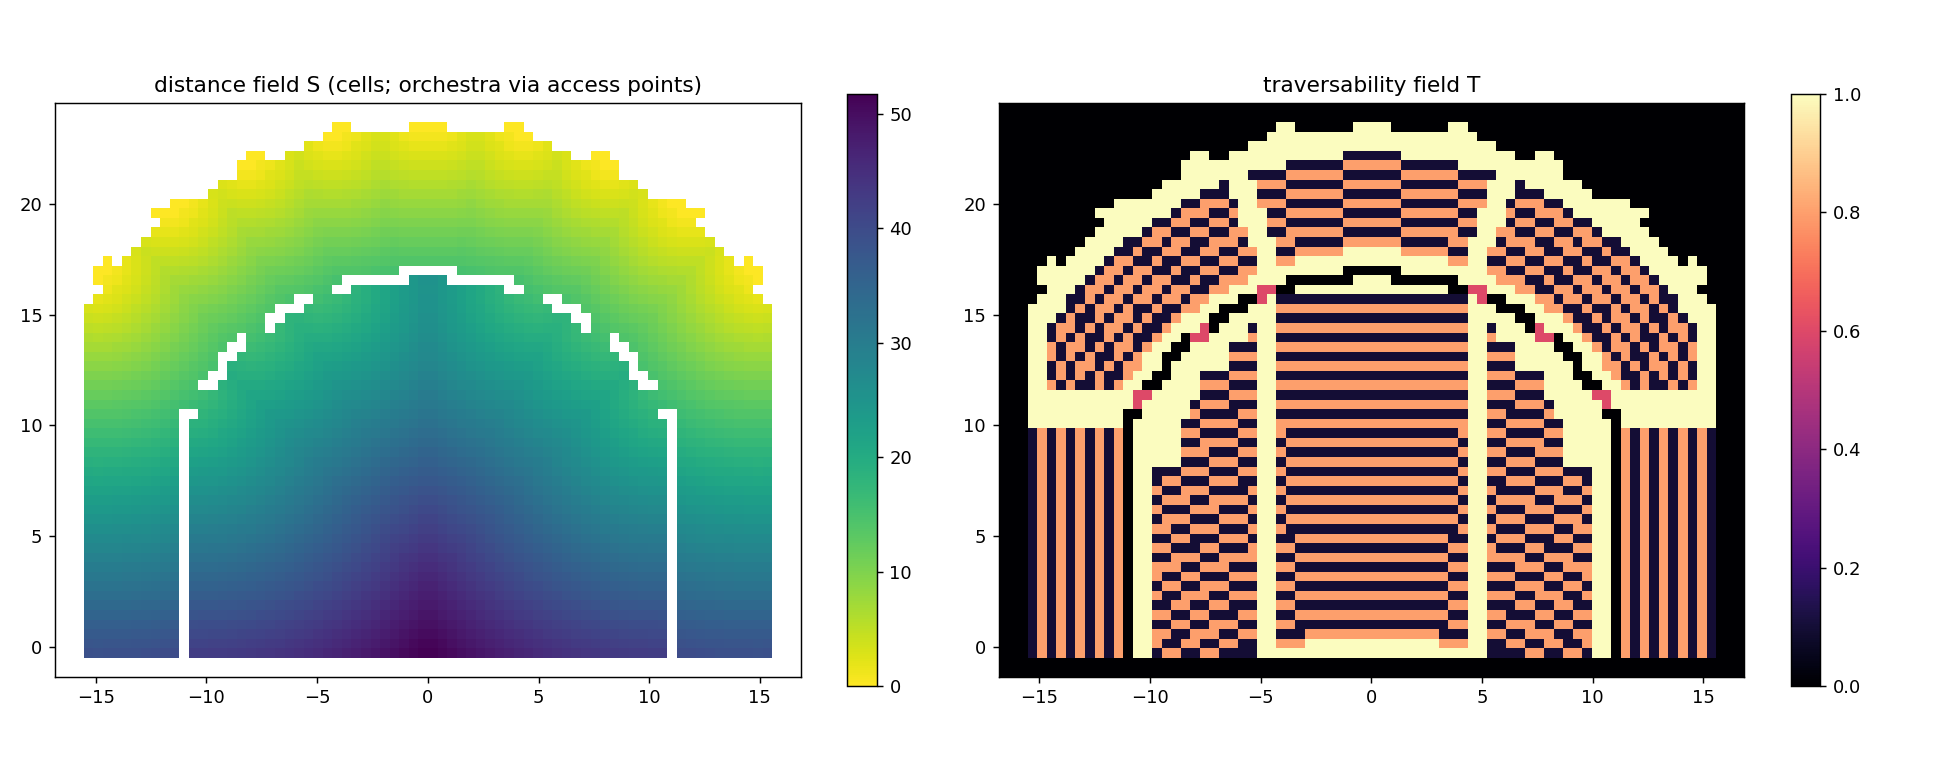
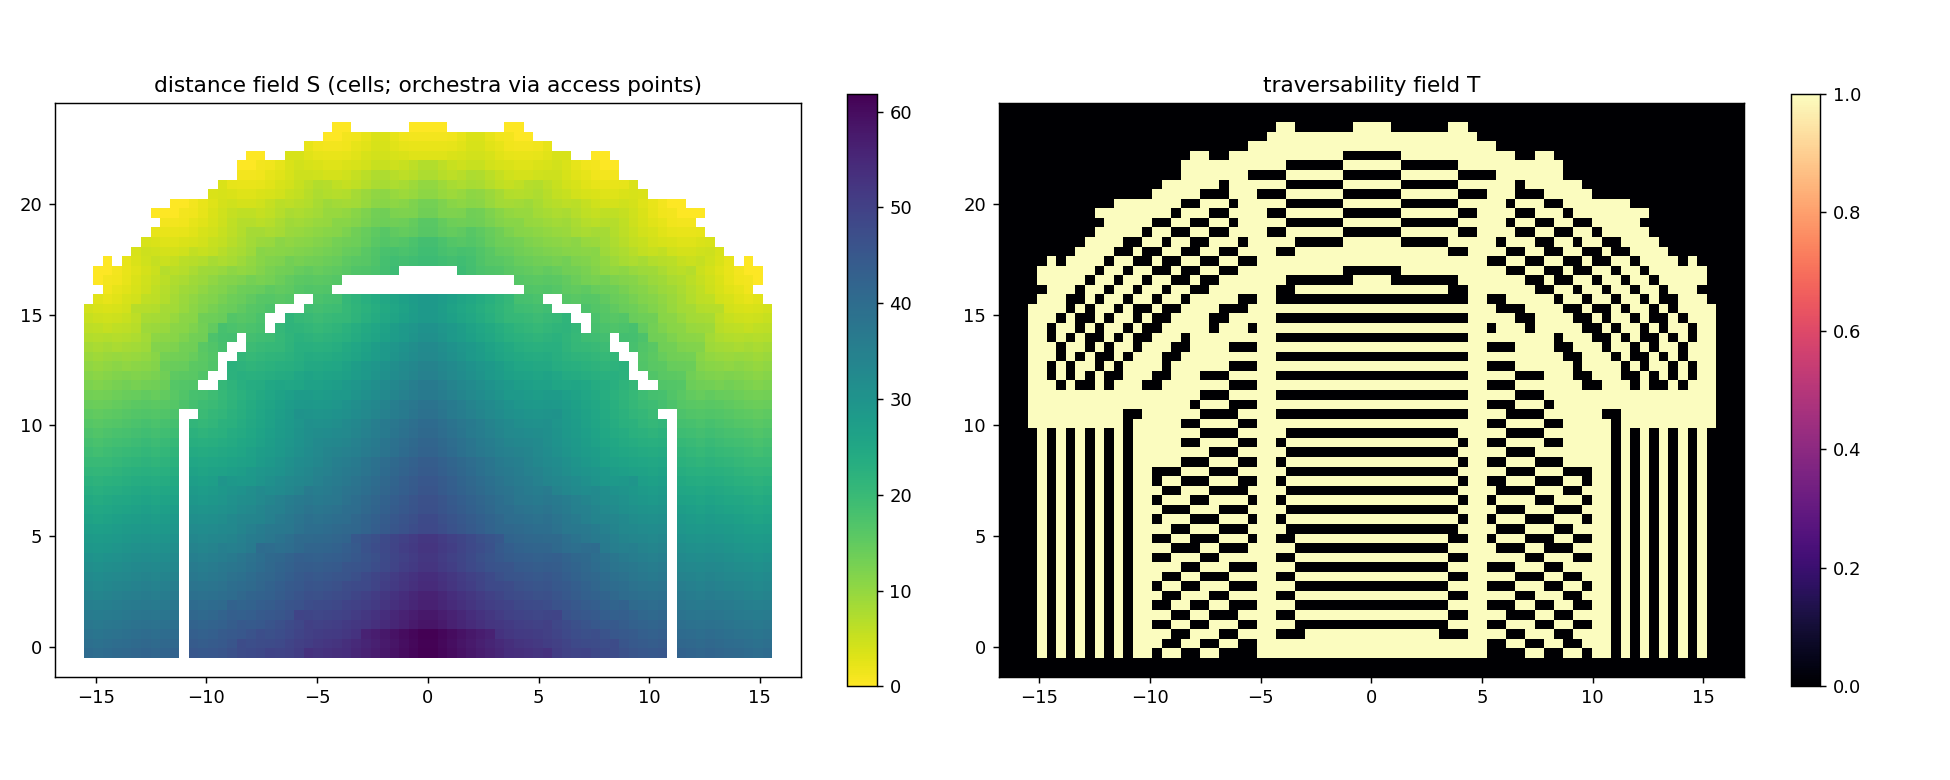
Binary traversability field; distance field = shortest walkable path to exits
- traversability_field: T is 1 for access/aisle/legroom/exit, 0 for seat/wall
- distance_field: Dijkstra from the exits over walkable cells (8 neighbours,
  diagonal cost sqrt 2); seats get the cost of stepping out to a walkable neighbour
- continuum: keeps its own per-type walking-speed factors (seats must stay passable)
- main.tex: binary definition of ST
- regenerated bailey_grid.npz and bailey_fields.png

diff --git a/continuous/continuum.py b/continuous/continuum.py
@@ -12,7 +12,9 @@ The crowd is a density rho(x, t) in people/m^2 that obeys
 Crowding enters in four places:
   1. Speed falls with density, separately for each cell type (Greenshields):
          q(rho) = vf * rho * (1 - rho/RHO_MAX),   vf = V_FREE * T(type) * (1 - merge loss)
-     T is the traversability field from the CA (aisle 1.0, legroom 0.8, seat 0.1).
+     T is a per-type walking-speed factor (aisle 1.0, legroom 0.8, seat 0.1). This is
+     not the CA's binary traversability field: people start out standing on seat
+     cells here, so seats must stay slow but passable.
   2. Flow between two cells is min(demand of the sender, supply of the receiver)
      (Godunov / cell-transmission form). A packed aisle has little supply, so it is
      hard to enter; a packed legroom row has its demand capped, so it empties slowly.
@@ -44,8 +46,7 @@ from scipy import ndimage
 
 sys.dont_write_bytecode = True
 sys.path.insert(0, str(Path(__file__).resolve().parent.parent))
-from bailey_grid import ACCESS, AISLE, EXIT, LEGROOM, SEAT, WALL     # noqa: E402
-from traversability_field import TRAVERSABILITY, traversability_field  # noqa: E402
+from bailey_grid import ACCESS, AISLE, EXIT, LEGROOM, SEAT, TYPE_NAMES, WALL  # noqa: E402
 from building import BARRICADES, OUT, build_building                   # noqa: E402
 
 # ----------------------------------------------------------------------------
@@ -62,12 +63,18 @@ PHI_EVERY = 1.0     # s, how often people re-plan (recompute phi and merge loss)
 T_END = 900.0       # s, give up after this
 DONE = 0.5          # people left inside when we call it evacuated
 
-# access points are slow because of their capacity (STAIR_FLOW), not their walking speed
-T_VALUES = {**TRAVERSABILITY, ACCESS: 1.0}
+# walking-speed factor by cell type; access points are slow because of their capacity
+# (STAIR_FLOW), not their walking speed
+T_VALUES = {WALL: 0.0, AISLE: 1.0, LEGROOM: 0.8, SEAT: 0.1, ACCESS: 1.0, EXIT: 1.0}
 
 RHO_C = RHO_MAX / 2                       # critical density (max flow)
 DIRS = [(0, 1), (0, -1), (1, 0), (-1, 0)]  # (dy, dx): east, west, north, south
 SQ = np.ones((3, 3), bool)
+
+
+def speed_factor(grid):
+    lut = np.array([T_VALUES[t] for t in range(len(TYPE_NAMES))])
+    return lut[grid]
 
 
 def nb(a, dy, dx):
@@ -140,7 +147,7 @@ def simulate(barricades="none", dt=None, jam_drop=JAM_DROP, merge_loss=MERGE_LOS
     assert (grid[[0, -1], :] == WALL).all() and (grid[:, [0, -1]] == WALL).all()
     dt = dt or 0.5 * cell / V_FREE                     # CFL condition
 
-    vf0 = V_FREE * traversability_field(np.minimum(grid, EXIT), T_VALUES)  # doors/outside = 1
+    vf0 = V_FREE * speed_factor(np.minimum(grid, EXIT))  # doors/outside = 1
     out_ = grid == OUT
     fronts = opening_fronts(b, vf0)
 

diff --git a/distance_field.py b/distance_field.py
@@ -1,34 +1,48 @@
 """
 distance_field.py
-Static field S: straight-line distance to the exits, in cells.
+Static field S: shortest walking distance to the nearest exit, in cells.
 
-    Mezzanine and access cells:  S(x) = min_e |x - x_e| / CELL
-    Orchestra cells:             S(x) = min_q ( |x - x_q| / CELL + S(x_q) )
+S is found by Dijkstra's algorithm outward from the exit cells (S = 0), moving to any
+of the 8 neighbours (up/down/left/right cost 1, diagonals cost sqrt 2) and only through
+traversable cells (T = 1: access, aisle, legroom, exit).
 
-e runs over exit cells, q over access cells. Routing the orchestra through the access
-points keeps S decreasing all the way out, so no walkable cell is a local minimum in
-front of the barrier. Straight lines ignore walls; wall cells get inf.
+Seats are not traversable, so a path never passes through one, but the people sitting
+in them still need a value: a seat gets the smallest S + step cost over its traversable
+neighbours (the step out of the chair). Walls, and anything with no route out, are inf.
+
+Because the barrier is a wall, orchestra paths automatically go through the access points.
 """
+
+import heapq
 
 import numpy as np
 
-from bailey_grid import ACCESS, CELL, EXIT, WALL
+from bailey_grid import EXIT, NEI8, SEAT
+from traversability_field import traversability_field
+
+STEP = [(dy, dx, float(np.hypot(dy, dx))) for dy, dx in NEI8]
 
 
 def distance_field(g):
-    grid, xs, ys, orch = g["grid"], g["xs"], g["ys"], g["orch"]
-    X, Y = np.meshgrid(xs, ys)
+    grid = g["grid"]
+    walk = traversability_field(grid) == 1
+    H, W = grid.shape
 
     S = np.full(grid.shape, np.inf)
-    ey, ex = np.nonzero(grid == EXIT)
-    for px, py in zip(xs[ex], ys[ey]):
-        S = np.minimum(S, np.hypot(X - px, Y - py) / CELL)
+    S[grid == EXIT] = 0.0
+    heap = [(0.0, int(y), int(x)) for y, x in np.argwhere(grid == EXIT)]
+    while heap:
+        s, y, x = heapq.heappop(heap)
+        if s > S[y, x]:
+            continue
+        for dy, dx, c in STEP:
+            v, u = y + dy, x + dx
+            if 0 <= v < H and 0 <= u < W and walk[v, u] and s + c < S[v, u]:
+                S[v, u] = s + c
+                heapq.heappush(heap, (s + c, v, u))
 
-    S_orch = np.full(grid.shape, np.inf)
-    ay, ax = np.nonzero(grid == ACCESS)
-    for iy, ix in zip(ay, ax):
-        S_orch = np.minimum(S_orch, np.hypot(X - xs[ix], Y - ys[iy]) / CELL + S[iy, ix])
-    S[orch] = S_orch[orch]
-
-    S[grid == WALL] = np.inf
+    for y, x in np.argwhere(grid == SEAT):
+        S[y, x] = min((S[y + dy, x + dx] + c for dy, dx, c in STEP
+                       if 0 <= y + dy < H and 0 <= x + dx < W and walk[y + dy, x + dx]),
+                      default=np.inf)
     return S

diff --git a/main.tex b/main.tex
@@ -126,14 +126,10 @@ We then assign one of six types to each grid cell: chair, legroom, aisle, wall, 
 
 $$SD_{ij} = \text{ Need to explain this}$$
 $$ST_{ij} = \begin{cases}
-    T_{\text{chair}} \text{ if cell (i,j) is type chair}\\
-    T_{\text{legroom}} \text{ if cell (i,j) is type legroom}\\
-    T_{\text{aisle}} \text{ if cell (i,j) is type aisle}\\
-    T_{\text{wall}} \text{ if cell (i,j) is type wall}\\
-    T_{\text{access}} \text{ if cell (i,j) is type access}
-    T_{\text{exit}} \text{ if cell (i,j) is type exit}
+    1 & \text{if cell } (i,j) \text{ is of type access, aisle, legroom or exit,}\\
+    0 & \text{if cell } (i,j) \text{ is of type chair or wall.}
 \end{cases}$$
-The idea here is that $SD$ incorporates information about proximity to the nearest exit or access point, and that $ST$ incorporates information about how difficult it is to traverse across different types of grid cells.
+The idea here is that $SD$ incorporates information about proximity to the nearest exit or access point, and that $ST$ records which grid cells can be walked through at all.
 
 
 Next, we define a dynamic field $D$ as follows. During a given time step, if an automata (patron) exits cell $(i,j)$ we increment $D_{ij}$ by one unit. Then, after every automata has attempted to move. With probability $\delta$, a cell value $D_{ij}$ ``decays"

diff --git a/traversability_field.py b/traversability_field.py
@@ -1,16 +1,16 @@
 """
 traversability_field.py
-Static field T: how easy each cell is to move through, by cell type (0 = impassable).
+Static field T: whether a cell can be walked through (1) or not (0), by cell type.
+Access, aisle, legroom and exit cells are 1; seats and walls are 0.
 """
 
 import numpy as np
 
 from bailey_grid import ACCESS, AISLE, EXIT, LEGROOM, SEAT, TYPE_NAMES, WALL
 
-TRAVERSABILITY = {WALL: 0.0, AISLE: 1.0, LEGROOM: 0.8, SEAT: 0.1,
-                  ACCESS: 0.6, EXIT: 1.0}
+TRAVERSABILITY = {WALL: 0, AISLE: 1, LEGROOM: 1, SEAT: 0, ACCESS: 1, EXIT: 1}
 
 
 def traversability_field(grid, values=TRAVERSABILITY):
-    lut = np.array([values[t] for t in range(len(TYPE_NAMES))])
+    lut = np.array([values[t] for t in range(len(TYPE_NAMES))], dtype=int)
     return lut[grid]

diff --git a/continuous/README.md b/continuous/README.md
@@ -18,7 +18,7 @@ python continuum.py --dt-check  # also repeats the baseline at half the time ste
 ## How crowding is modeled
 | Effect | How |
 |---|---|
-| Packed space is slower | v = V_FREE · T(cell type) · (1 − ρ/RHO_MAX), T from `../traversability_field.py` |
+| Packed space is slower | v = V_FREE · T(cell type) · (1 − ρ/RHO_MAX), T = per-type speed factor in `continuum.py` (aisle 1, legroom 0.8, seat 0.1; not the CA's binary traversability field) |
 | Packed aisle hard to enter / packed legroom hard to leave | Flow between cells = min(sender's demand, receiver's supply) |
 | Doors and access-point steps | Capacity = DOOR_FLOW (1.3) or STAIR_FLOW (1.0) people/(m·s) × width, reduced by up to JAM_DROP when the crowd in front is packed and squeezing in (clogging) |
 | Merging / crossing streams | Walking speed drops by up to MERGE_LOSS where streams converge from different directions |
